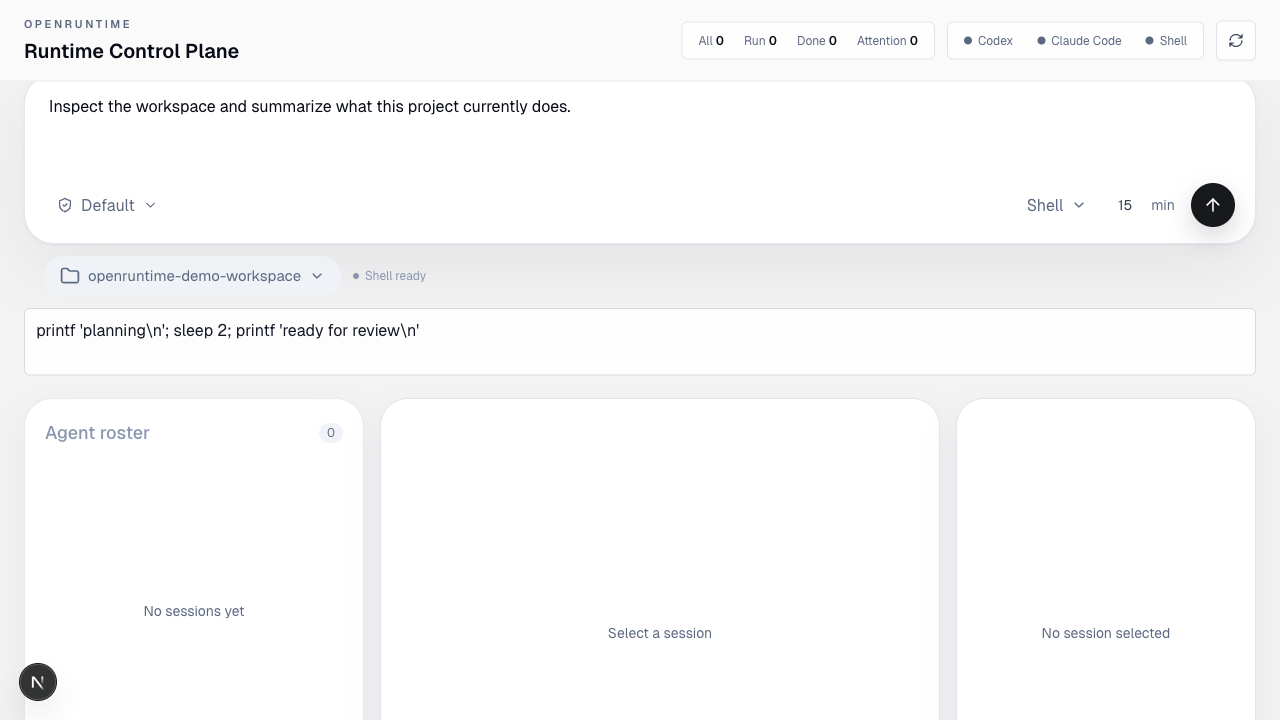
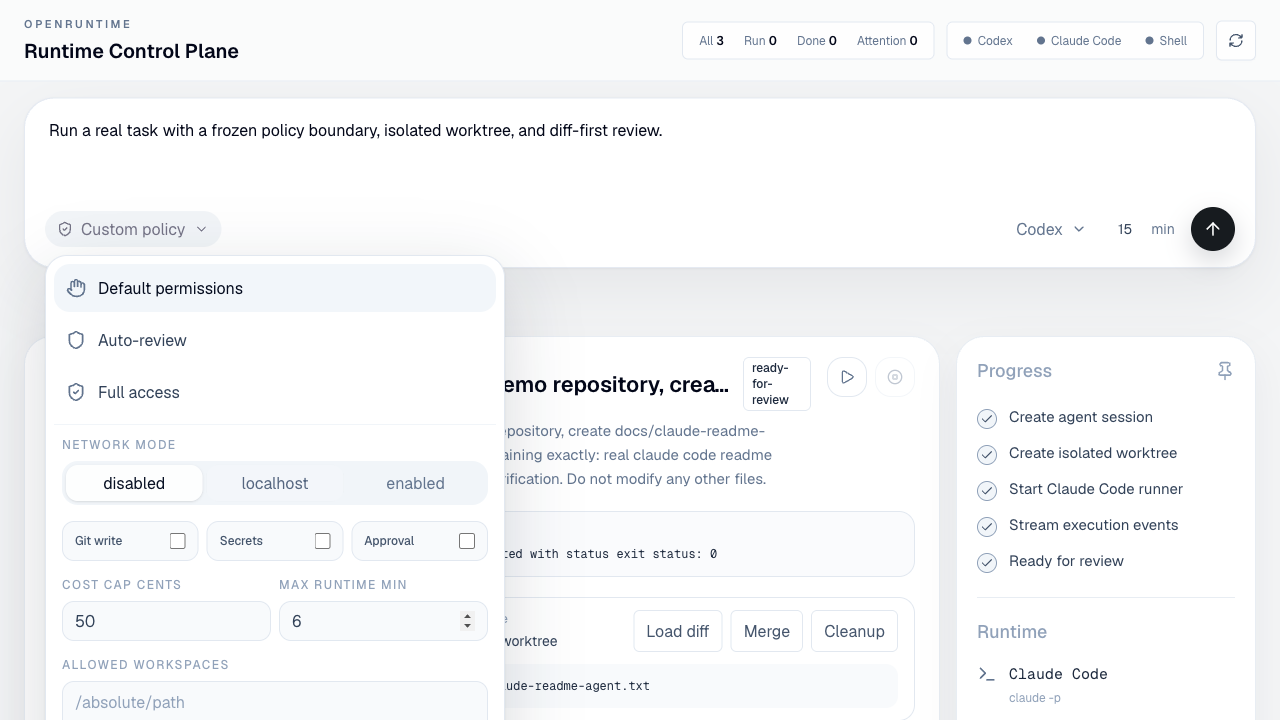
Refresh README assets from real agent runs

diff --git a/README.md b/README.md
@@ -24,17 +24,23 @@ runtime layer around them.
 
 ![openRuntime workflow demo](docs/assets/openruntime-demo.gif)
 
-The demo above was captured from a real local run: a shell task was dispatched
-from the GUI, isolated into a git worktree, allowed to modify a demo repository,
-reviewed through the diff surface, merged back, and cleaned up.
+The demo above was captured from real local runs against a temporary git
+workspace. It includes a shell policy-boundary task, a Codex task, and a Claude
+Code task dispatched through the GUI, isolated into git worktrees, streamed into
+the session timeline, reviewed through the diff surface, plus a reviewed
+worktree merged and cleaned up from the UI.
 
-| Dispatch and runner state | Live session timeline |
+| Dispatch policy and runner state | Live session timeline |
 | --- | --- |
 | ![Dispatch workspace and runner state](docs/assets/openruntime-dispatch.png) | ![Running task with streamed events](docs/assets/openruntime-running.png) |
 
-| Diff-first review | Merged and cleaned |
+| Real Codex and Claude Code sessions | Diff-first review |
 | --- | --- |
-| ![Diff review surface](docs/assets/openruntime-review.png) | ![Merged and cleaned worktree](docs/assets/openruntime-merged-cleaned.png) |
+| ![Real Codex and Claude Code sessions](docs/assets/openruntime-real-agents.png) | ![Diff review surface](docs/assets/openruntime-review.png) |
+
+| Merged and cleaned worktree |
+| --- |
+| ![Merged and cleaned worktree](docs/assets/openruntime-merged-cleaned.png) |
 
 ## What it does
 
